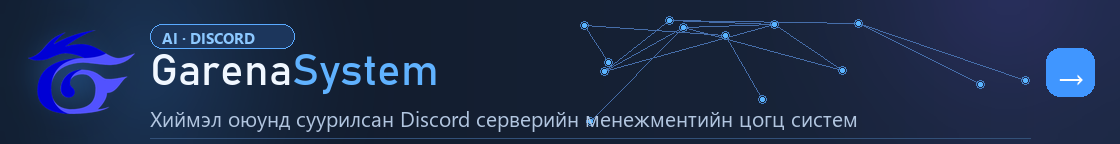
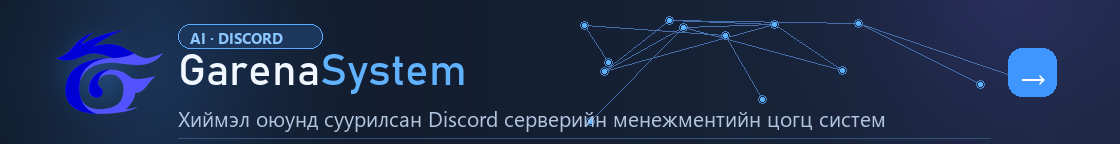
client v2.2.0: реклам самбар улаан хүрээндээ таарч дүүрэх + баруунаас зүүн swipe transition
- .ad-slot img: object-fit cover + border-radius (letterbox арилж, ирмэг дугуйрч хүрээтэй таарна)
- .ad-slot .ad-link: absolute + transform transition (swipe үндэс)
- app.js: рекламууд 8с тутам баруунаас зүүн тийш гулсаж солигдоно
- gs-ad-1/2.png: лого/CTA ирмэгээс дотогш зөөв (cover тайрахад аюулгүй)

diff --git a/client/src/renderer/app.js b/client/src/renderer/app.js
@@ -4786,14 +4786,34 @@ init();
         if (!slot || !Array.isArray(ads) || !ads.length) return;
         slot.classList.add('has-ad');
         let idx = 0;
-        const show = () => {
-          const ad = ads[idx % ads.length];
-          if (!ad || !(ad.image || ad.text)) return;
-          slot.innerHTML = `<a class="ad-link" href="#" title="${escHtml(ad.text || '')}">${ad.image ? `<img src="${escHtml(ad.image)}" alt="">` : `<span class="ad-text">${escHtml(ad.text)}</span>`}</a>`;
-          slot.querySelector('.ad-link').addEventListener('click', (e) => { e.preventDefault(); if (ad.link) window.api.openExternal?.(ad.link); });
+        const makeLink = (ad) => {
+          const a = document.createElement('a');
+          a.className = 'ad-link';
+          a.href = '#';
+          a.title = ad.text || '';
+          a.innerHTML = ad.image ? `<img src="${escHtml(ad.image)}" alt="">` : `<span class="ad-text">${escHtml(ad.text || '')}</span>`;
+          a.addEventListener('click', (e) => { e.preventDefault(); if (ad.link) window.api.openExternal?.(ad.link); });
+          return a;
         };
-        show();
-        if (ads.length > 1) setInterval(() => { idx++; show(); }, 8000);   // ~8с тутам эргэлдэнэ
+        // Эхний реклам
+        let current = makeLink(ads[0]);
+        slot.innerHTML = '';
+        slot.appendChild(current);
+        // Баруунаас зүүн тийш swipe
+        const swipeTo = (ad) => {
+          if (!ad || !(ad.image || ad.text)) return;
+          const next = makeLink(ad);
+          next.style.transform = 'translateX(100%)';   // баруунаас гарч ирнэ
+          slot.appendChild(next);
+          void next.offsetWidth;                        // reflow → transition эхлүүлнэ
+          next.style.transform = 'translateX(0)';
+          current.style.transform = 'translateX(-100%)'; // хуучин нь зүүн тийш гарна
+          const old = current;
+          current = next;
+          setTimeout(() => { old.remove(); }, 650);
+        };
+        if (ads.length > 1) setInterval(() => { idx = (idx + 1) % ads.length; swipeTo(ads[idx]); }, 8000);   // ~8с тутам эргэлдэнэ
+
       } catch {}
     })();
   }

diff --git a/client/src/renderer/styles.css b/client/src/renderer/styles.css
@@ -3950,6 +3950,7 @@ body:not(.light) .maintab.active {
 
 /* ── 1.8.5: толгойн реклам + Найзууд цонхны профайл чип / удирдлага ─────────── */
 .ad-slot {
+  position: relative;
   flex: 1 1 auto; min-width: 0; max-width: 560px; height: 72px; margin-left: auto;
   display: flex; align-items: center; justify-content: center; gap: 10px;
   border: 1px dashed rgba(255, 140, 146, 0.45); border-radius: 10px;
@@ -3958,8 +3959,14 @@ body:not(.light) .maintab.active {
 }
 .ad-slot .ad-label { padding: 2px 8px; border: 1px solid rgba(255, 140, 146, 0.35); border-radius: 999px; font-size: 10px; }
 .ad-slot.has-ad { border-style: solid; background: transparent; text-transform: none; letter-spacing: 0; color: var(--text); }
-.ad-slot .ad-link { display: flex; width: 100%; height: 100%; align-items: center; justify-content: center; color: inherit; text-decoration: none; }
-.ad-slot img { max-width: 100%; max-height: 100%; object-fit: contain; display: block; }
+.ad-slot .ad-link {
+  position: absolute; inset: 0;
+  display: flex; align-items: center; justify-content: center;
+  color: inherit; text-decoration: none;
+  transition: transform 0.55s cubic-bezier(0.4, 0, 0.2, 1);
+  will-change: transform;
+}
+.ad-slot img { width: 100%; height: 100%; object-fit: cover; border-radius: 9px; display: block; }
 .friends-window-header { padding: 10px 12px; }
 .friends-window-header .userchip { width: 100%; justify-content: flex-start; }
 .friends-window-header .userchip #user-name { max-width: 180px; overflow: hidden; text-overflow: ellipsis; white-space: nowrap; }
